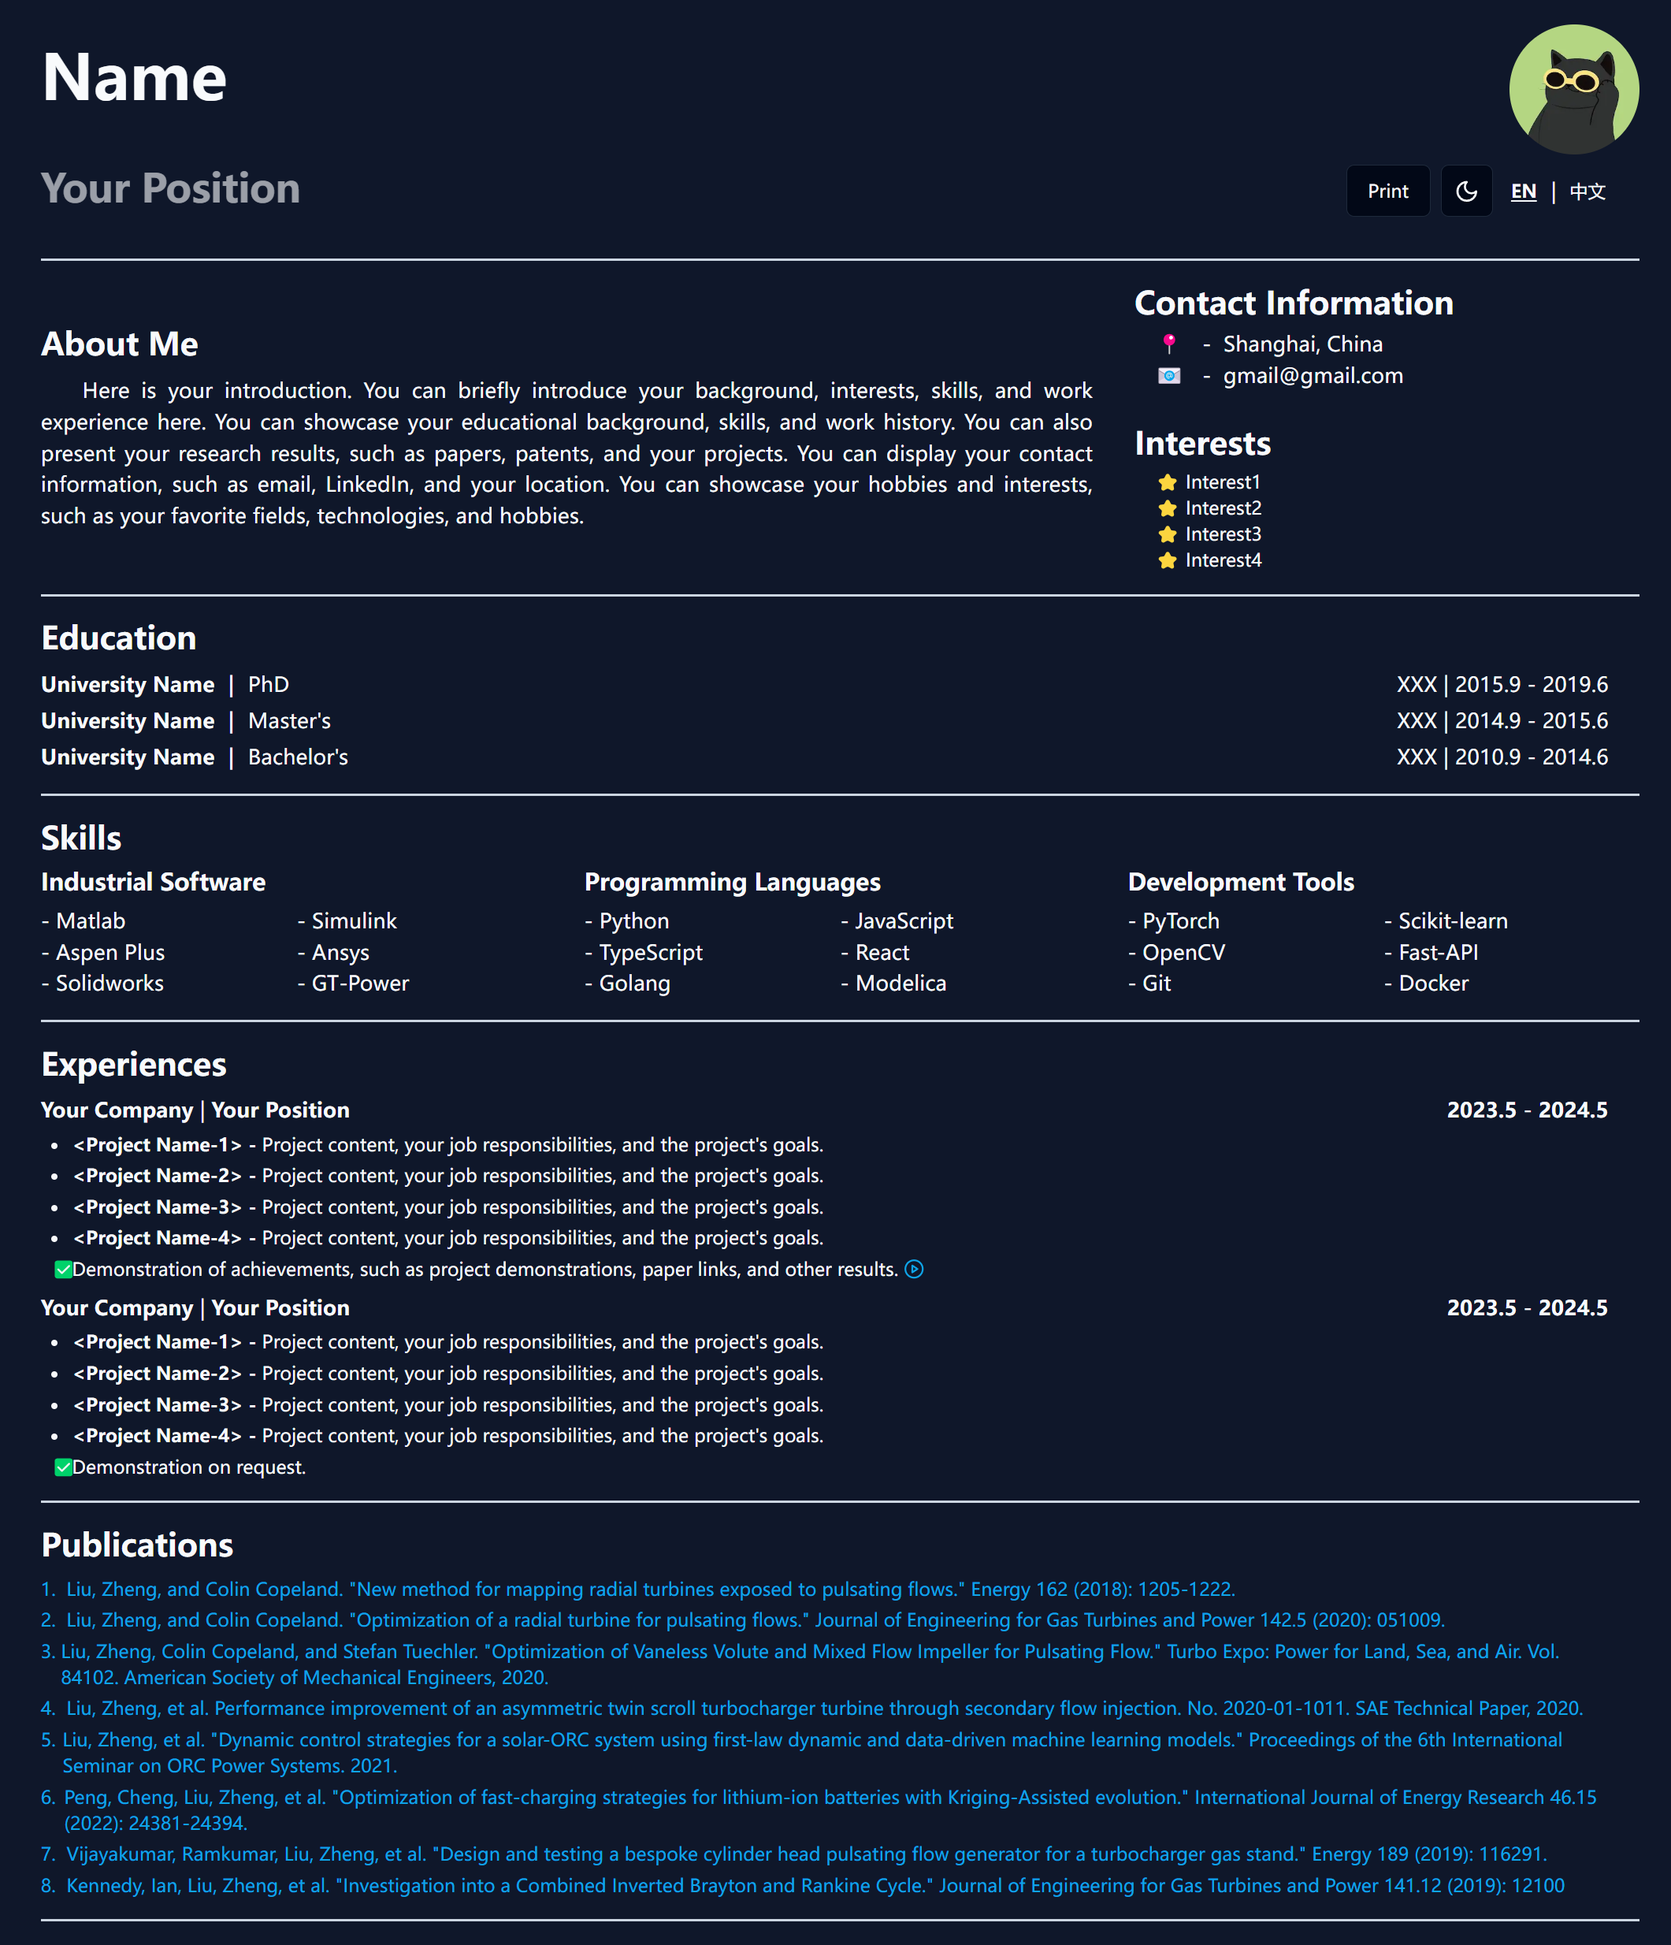
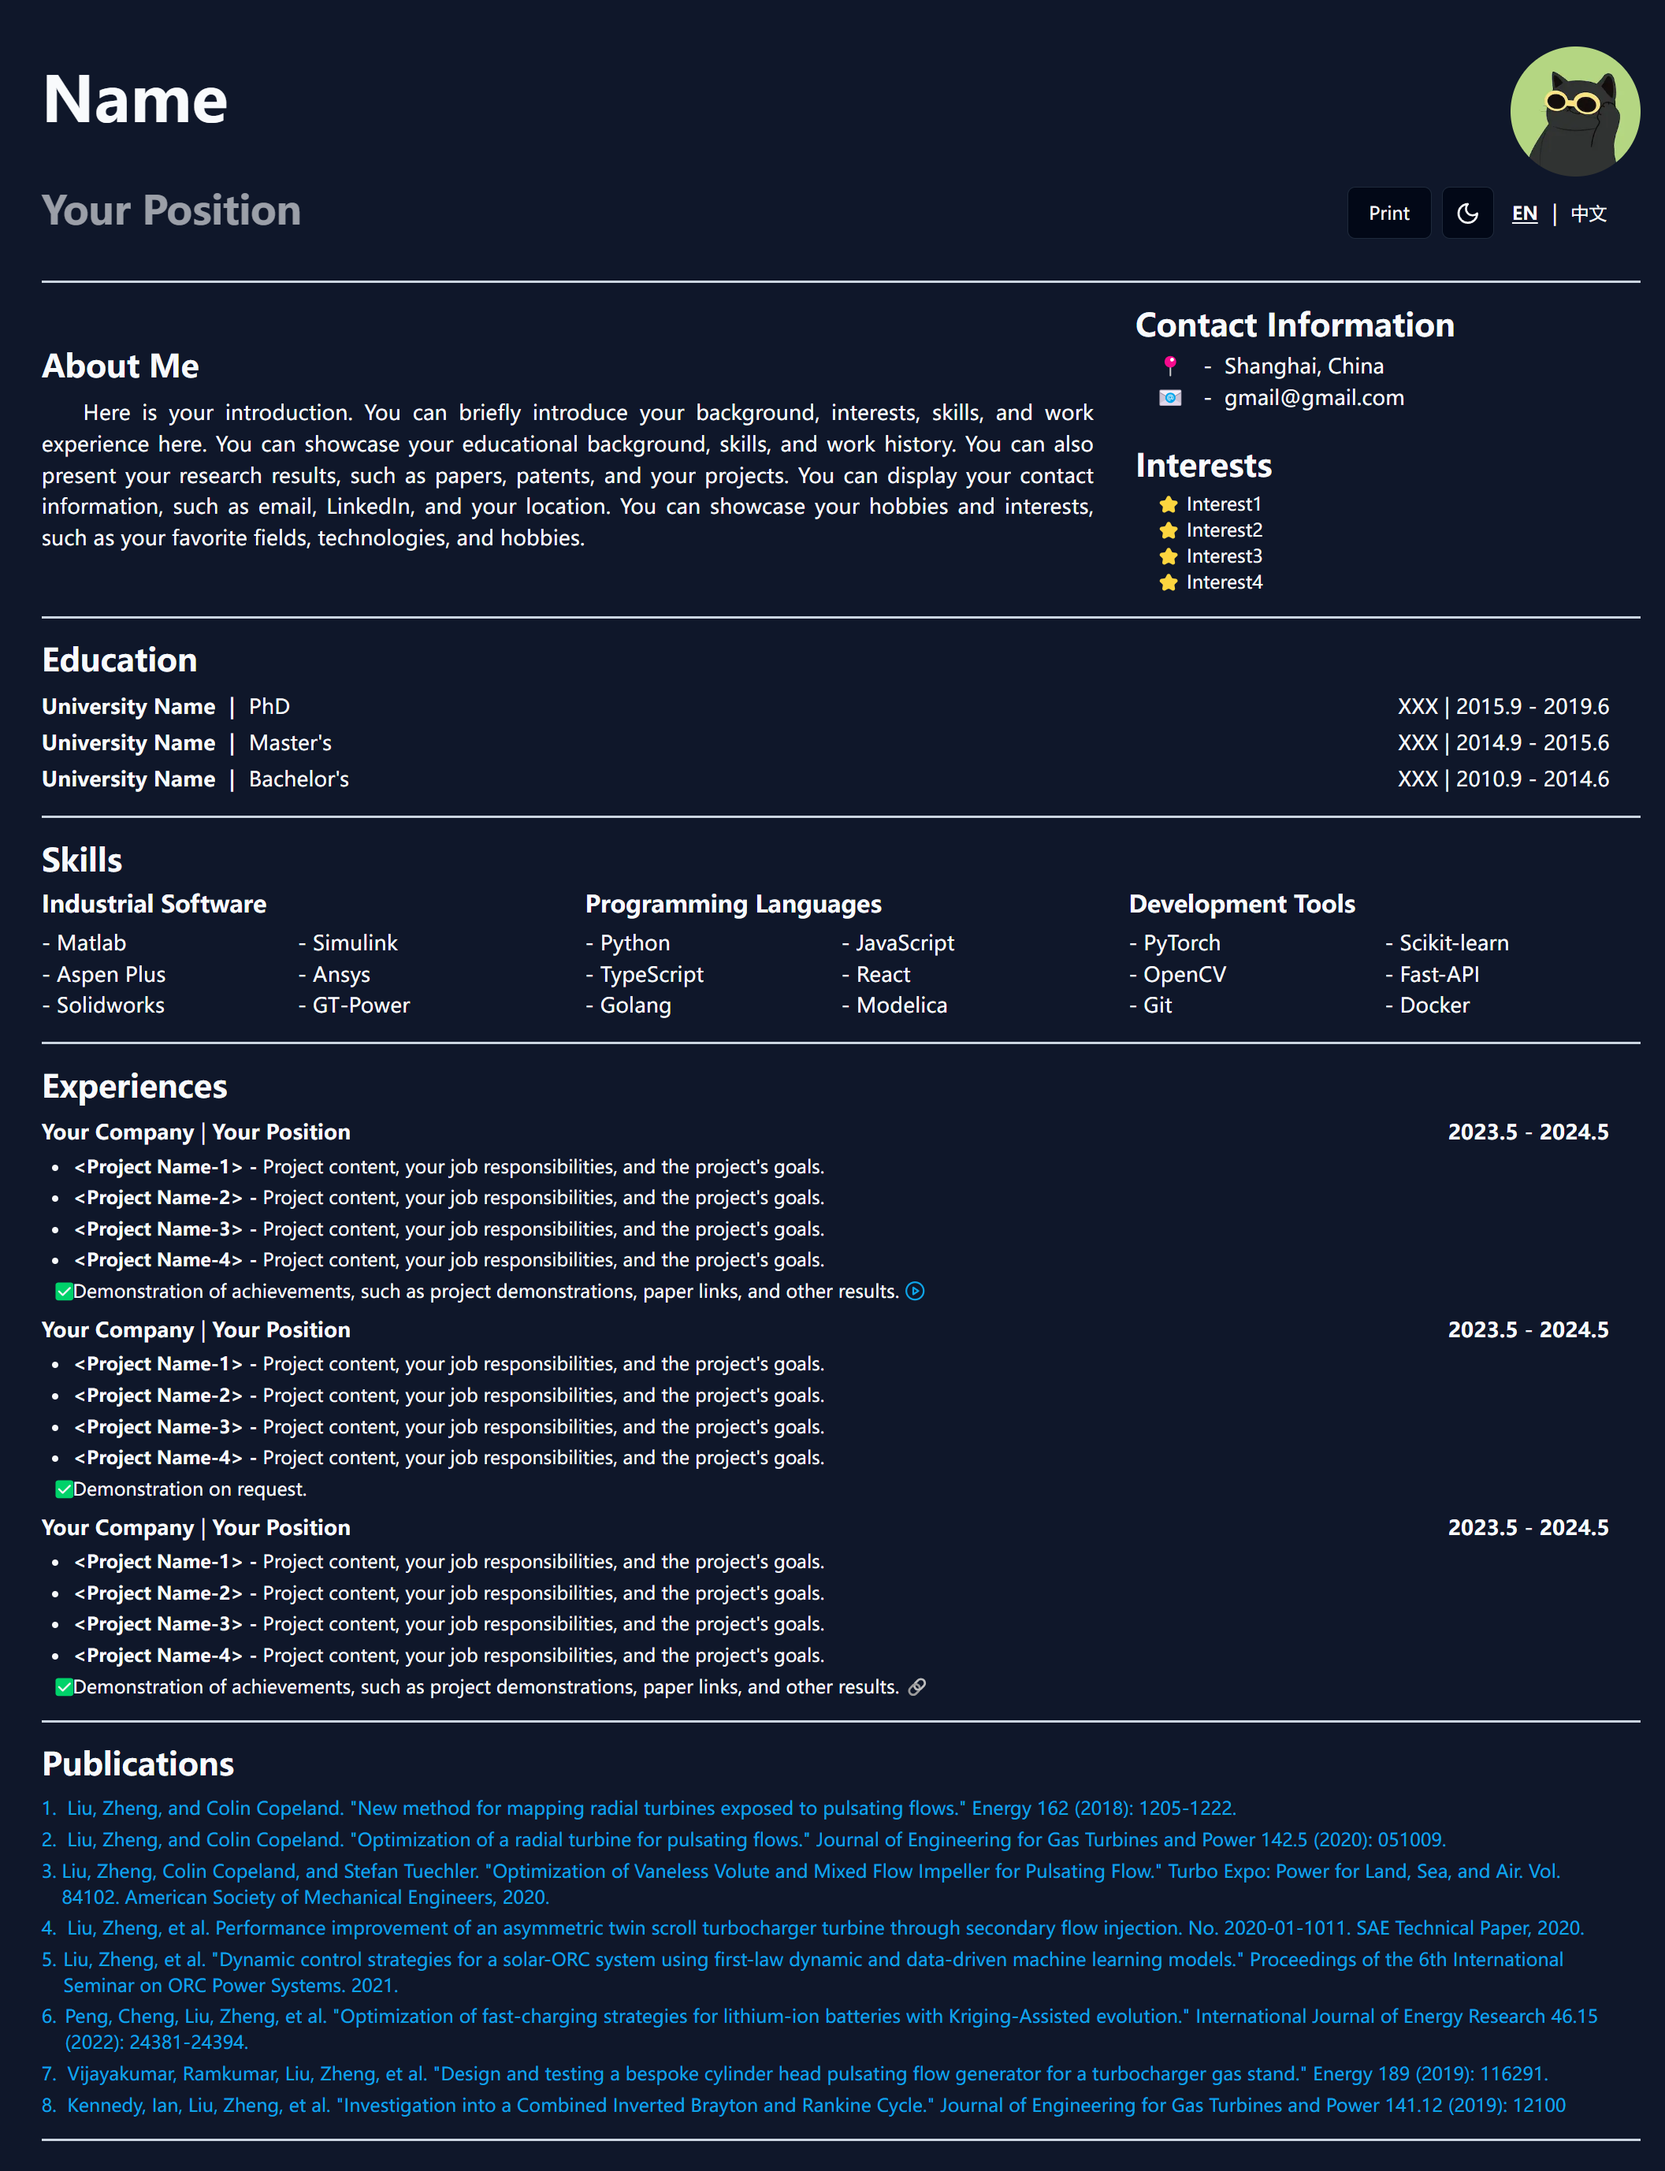
first commit

diff --git a/public/my-info.ts b/public/my-info.ts
@@ -315,6 +315,43 @@ export const myInfo = {
           },
         ],
       },
+      {
+        from: "2023.5",
+        to: "2024.5",
+        company: "Your Company",
+        location: "Shanghai, China",
+        title: "Your Position",
+        description: [
+          {
+            title: "Project Name-1",
+            detail:
+              "Project content, your job responsibilities, and the project's goals.",
+          },
+          {
+            title: "Project Name-2",
+            detail:
+              "Project content, your job responsibilities, and the project's goals.",
+          },
+          {
+            title: "Project Name-3",
+            detail:
+              "Project content, your job responsibilities, and the project's goals.",
+          },
+          {
+            title: "Project Name-4",
+            detail:
+              "Project content, your job responsibilities, and the project's goals.",
+          },
+        ],
+        achievements: [
+          {
+            description:
+              "Demonstration of achievements, such as project demonstrations, paper links, and other results.",
+            src: "https://github.com/zhengliu92",
+            icon: "ref",
+          },
+        ],
+      },
     ],
     Education: [
       {
